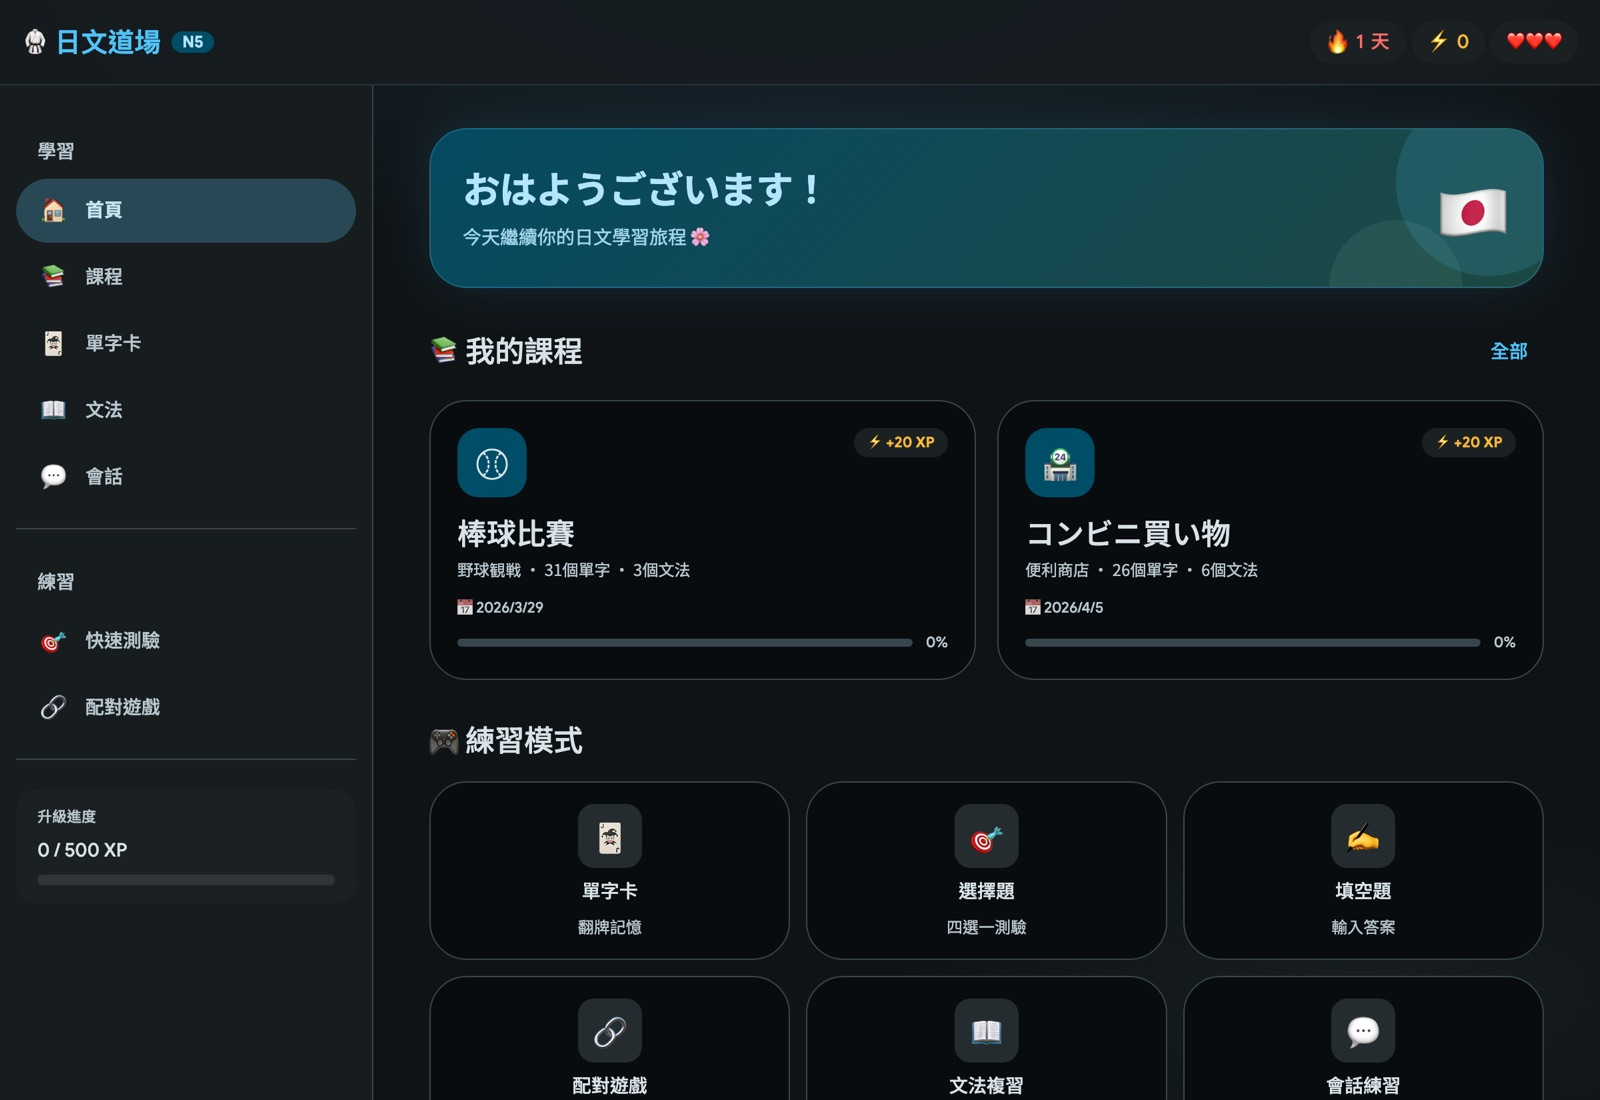
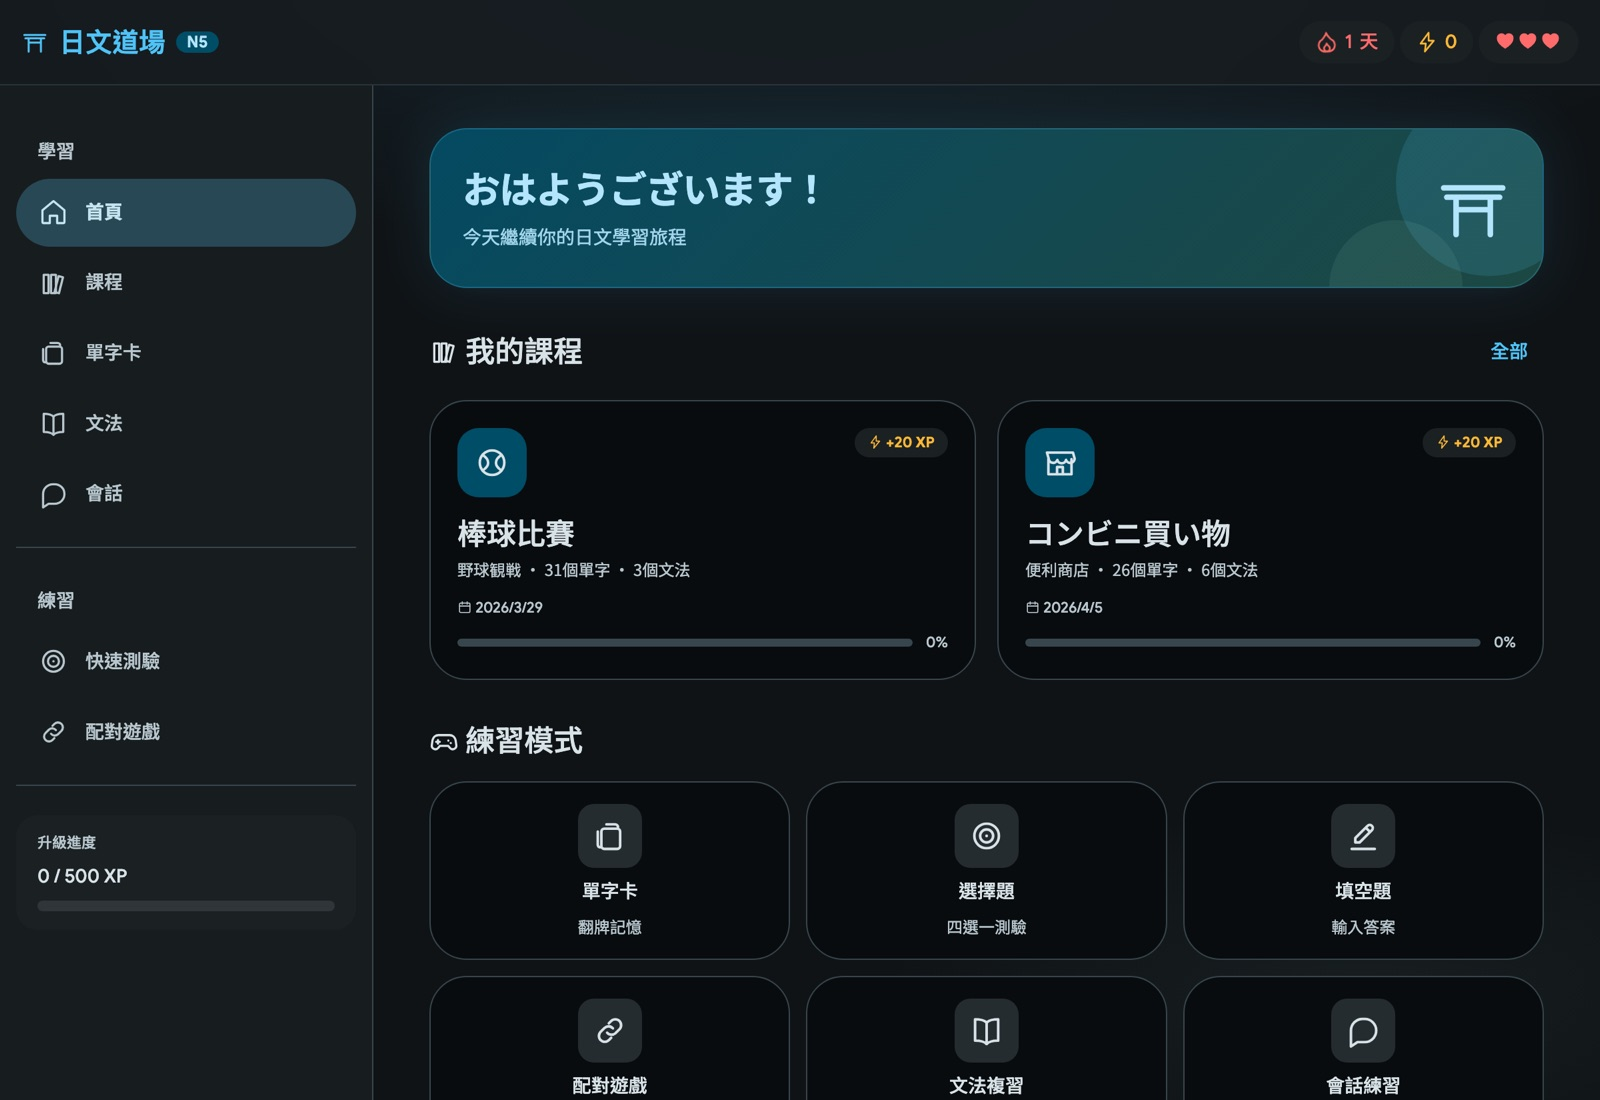
日文道場 case study 去 emoji、更新封面，並修正疫苗預約歸屬
- Japanese.jsx 的功能模組與留存機制卡改用 inline SVG Icon 元件，
  圖形與日文道場 App 本身的 icon 系統一致
- 封面換成 App 改版後的實際畫面（原本那張還是 emoji 版）
- 新竹疫苗預約：企業「資拓宏宇」改為身分「自由接案」，
  與履歷的工作經歷一致（該案屬 2024.06–2025.12 接案期間）

diff --git a/src/pages/projects/Japanese.jsx b/src/pages/projects/Japanese.jsx
@@ -61,6 +61,29 @@ const featureIconStyle = {
   marginTop: '0.1rem',
 }
 
+const ICON_PATHS = {
+  library: <><path d="M4 5.5h4v15H4zM10 5.5h4v15h-4z" /><path d="M16.2 6.6l3.6.9-3.3 13.1-3.6-1z" /></>,
+  cards: <><rect x="6" y="7" width="13" height="14" rx="2" /><path d="M9.5 4h6a2 2 0 0 1 2 2" /><path d="M3.5 9v9a2 2 0 0 0 1.5 1.9" /></>,
+  target: <><circle cx="12" cy="12" r="8.5" /><circle cx="12" cy="12" r="4.5" /></>,
+  link: <><path d="M10 13.5a4 4 0 0 0 5.7.4l2.8-2.8a4 4 0 0 0-5.7-5.7l-1.6 1.6" /><path d="M14 10.5a4 4 0 0 0-5.7-.4l-2.8 2.8a4 4 0 0 0 5.7 5.7l1.6-1.6" /></>,
+  book: <><path d="M12 6.5C10.6 5 8.6 4.2 4 4.2V19c4.6 0 6.6.8 8 2.3 1.4-1.5 3.4-2.3 8-2.3V4.2c-4.6 0-6.6.8-8 2.3z" /><path d="M12 6.5v14.8" /></>,
+  chat: <path d="M21 12a8 8 0 0 1-8 8H8l-4.5 3V12a8 8 0 0 1 8-8h1a8 8 0 0 1 8.5 8z" />,
+  flame: <><path d="M12 2.5c.6 3.2 3 4.4 4.4 6.6A6.6 6.6 0 0 1 12 21.5 6.6 6.6 0 0 1 7.6 9.1C9 6.9 11.4 5.7 12 2.5z" /><path d="M12 21.5a3 3 0 0 1-1.8-5.4c.7-.6 1.5-1.5 1.8-2.8.3 1.3 1.1 2.2 1.8 2.8A3 3 0 0 1 12 21.5z" /></>,
+  bolt: <path d="M13.5 2 5 13.5h5.5L9.5 22 19 10.5h-5.5z" />,
+  heart: <path d="M12 20.7C6.9 17.5 3.5 14.2 3.5 10.4A4.4 4.4 0 0 1 12 8.2a4.4 4.4 0 0 1 8.5 2.2c0 3.8-3.4 7.1-8.5 10.3z" />,
+  sparkle: <><path d="M12 3l1.9 5.1L19 10l-5.1 1.9L12 17l-1.9-5.1L5 10l5.1-1.9z" /><path d="M18.5 15.5l.8 2.2 2.2.8-2.2.8-.8 2.2-.8-2.2-2.2-.8 2.2-.8z" /></>,
+}
+
+function Icon({ name, size = 22 }) {
+  return (
+    <svg width={size} height={size} viewBox="0 0 24 24" fill="none" stroke="currentColor"
+      strokeWidth="1.6" strokeLinecap="round" strokeLinejoin="round" aria-hidden="true"
+      style={{ flex: 'none', verticalAlign: '-0.16em' }}>
+      {ICON_PATHS[name]}
+    </svg>
+  )
+}
+
 export default function Japanese() {
   return (
     <ProjectLayout
@@ -154,15 +177,15 @@ export default function Japanese() {
         <p>從 PM 視角出發，每個功能的存在都必須服務於「讓使用者明天還想回來」這個核心目標。以下五大模組各自對應不同的學習階段與留存機制：</p>
         <div style={featureMapStyle}>
           {[
-            { icon: '📚', title: '課程系統', body: '結構化的 N5 學習路徑，含單字、文法、會話三個維度，清楚顯示進度與解鎖狀態，製造「下一關」的驅動感。' },
-            { icon: '🃏', title: '單字卡（Flashcard）', body: '3D 翻牌動效 + 語音朗讀（TTS）。「不記得 / 記得」雙選反饋，模擬間隔記憶邏輯，加速記憶鞏固。' },
-            { icon: '🎯', title: '測驗（Quiz）', body: '四選一選擇題 + 填空輸入雙模式，答題後即時顯示正誤反饋與解釋，搭配愛心系統製造適度緊張感。' },
-            { icon: '🔗', title: '配對遊戲（Matching）', body: '日文 ↔ 中文連連看，答錯時震動動畫 + 扣心機制，讓「失敗成本」成為記憶的錨點。' },
-            { icon: '📖', title: '文法說明', body: '重點句型 + 波浪底線標注 + 多組例句，採台灣日常情境（購物、問路、餐廳），讓語法學習不脫離實用脈絡。' },
-            { icon: '💬', title: '情境會話', body: '分角色的對話場景（A/B 雙角色 + 店員/客人），搭配 TTS 逐句朗讀，模擬真實對話節奏。' },
+            { icon: 'library', title: '課程系統', body: '結構化的 N5 學習路徑，含單字、文法、會話三個維度，清楚顯示進度與解鎖狀態，製造「下一關」的驅動感。' },
+            { icon: 'cards', title: '單字卡（Flashcard）', body: '3D 翻牌動效 + 語音朗讀（TTS）。「不記得 / 記得」雙選反饋，模擬間隔記憶邏輯，加速記憶鞏固。' },
+            { icon: 'target', title: '測驗（Quiz）', body: '四選一選擇題 + 填空輸入雙模式，答題後即時顯示正誤反饋與解釋，搭配愛心系統製造適度緊張感。' },
+            { icon: 'link', title: '配對遊戲（Matching）', body: '日文 ↔ 中文連連看，答錯時震動動畫 + 扣心機制，讓「失敗成本」成為記憶的錨點。' },
+            { icon: 'book', title: '文法說明', body: '重點句型 + 波浪底線標注 + 多組例句，採台灣日常情境（購物、問路、餐廳），讓語法學習不脫離實用脈絡。' },
+            { icon: 'chat', title: '情境會話', body: '分角色的對話場景（A/B 雙角色 + 店員/客人），搭配 TTS 逐句朗讀，模擬真實對話節奏。' },
           ].map(f => (
             <div key={f.title} style={featureItemStyle}>
-              <span style={featureIconStyle}>{f.icon}</span>
+              <span style={featureIconStyle}><Icon name={f.icon} size={24} /></span>
               <div>
                 <h5 style={{ fontFamily: 'var(--font-display)', fontWeight: 700, marginBottom: '0.4rem' }}>{f.title}</h5>
                 <p style={{ fontSize: 'var(--fs-small)', color: 'var(--text-secondary)', lineHeight: 1.7, margin: 0 }}>{f.body}</p>
@@ -177,13 +200,13 @@ export default function Japanese() {
         <p>參考 Duolingo 的核心留存邏輯，並針對「沒有帳號系統的 Side Project」重新設計適合的輕量化版本：</p>
         <div className="row g-3">
           {[
-            { title: '🔥 連勝天數（Streak）', body: '最強的回訪驅動力之一。使用者一旦建立「連勝記錄」，為了「不讓數字歸零」而每天回來的動機遠超過「想學習」本身。這是 Duolingo 留存率的核心支柱之一。' },
-            { title: '⚡ XP 升級系統', body: '每完成一個練習獲得 XP，累積至 500 XP 升級。進度條讓使用者清楚看到「距離下一個里程碑還差多少」，製造 Endowed Progress Effect（已擁有進度捨不得放棄）。' },
-            { title: '❤ 愛心（Lives）系統', body: '測驗中限制犯錯次數，答錯扣心。適度的失敗成本讓使用者認真作答，避免無腦亂點，也讓「心全部消耗」成為一個自然的回訪觸發點。' },
-            { title: '✨ 即時正向反饋', body: '每次答對顯示 XP 浮動數字動畫（+10 XP），答題完成後呈現「太棒了！」完成頁，搭配正確率、用時、獲得 XP 等統計，讓每次練習都有明確的成就感。' },
+            { id: 'streak', icon: 'flame', title: '連勝天數（Streak）', body: '最強的回訪驅動力之一。使用者一旦建立「連勝記錄」，為了「不讓數字歸零」而每天回來的動機遠超過「想學習」本身。這是 Duolingo 留存率的核心支柱之一。' },
+            { id: 'xp', icon: 'bolt', title: 'XP 升級系統', body: '每完成一個練習獲得 XP，累積至 500 XP 升級。進度條讓使用者清楚看到「距離下一個里程碑還差多少」，製造 Endowed Progress Effect（已擁有進度捨不得放棄）。' },
+            { id: 'hearts', icon: 'heart', title: '愛心（Lives）系統', body: '測驗中限制犯錯次數，答錯扣心。適度的失敗成本讓使用者認真作答，避免無腦亂點，也讓「心全部消耗」成為一個自然的回訪觸發點。' },
+            { id: 'feedback', icon: 'sparkle', title: '即時正向反饋', body: '每次答對顯示 XP 浮動數字動畫（+10 XP），答題完成後呈現「太棒了！」完成頁，搭配正確率、用時、獲得 XP 等統計，讓每次練習都有明確的成就感。' },
           ].map(c => (
-            <div className="col-md-6" key={c.title}>
-              <HighlightCard title={c.title}><p>{c.body}</p></HighlightCard>
+            <div className="col-md-6" key={c.id}>
+              <HighlightCard title={<><Icon name={c.icon} size={20} /> {c.title}</>}><p>{c.body}</p></HighlightCard>
             </div>
           ))}
         </div>

diff --git a/src/components/ProjectsSection.jsx b/src/components/ProjectsSection.jsx
@@ -29,7 +29,7 @@ const featuredProjects = [
     desc: '從 UX 設計到前端實作一手包辦，重新梳理公共衛生資訊架構，讓市民快速完成疫苗預約、查詢與接種站查詢。',
     meta: [
       { label: '角色', value: 'UI/UX + 前端' },
-      { label: '企業', value: '資拓宏宇' },
+      { label: '身分', value: '自由接案' },
       { label: '關鍵挑戰', value: '降低公共系統認知負荷' },
     ],
     reverse: true,
